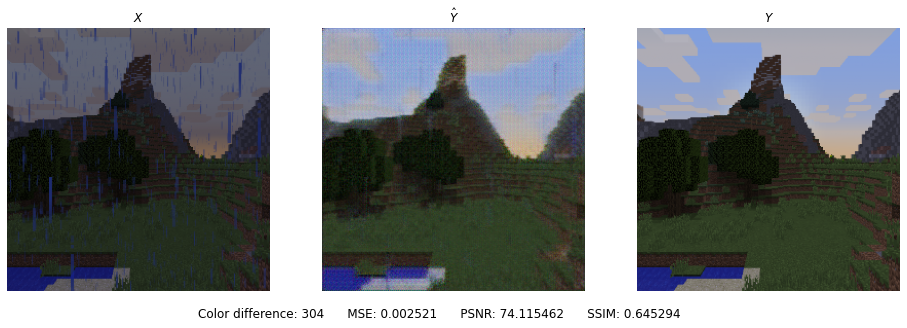
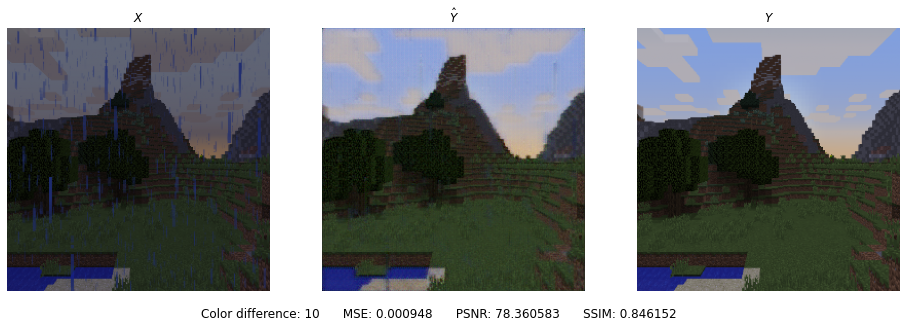
Site update

diff --git a/docs/final.md b/docs/final.md
@@ -23,6 +23,8 @@ This project will allow users to share gameplay in different environment conditi
 
 Our first task was to generate a collection of paired images depicting a given scene in two different conditions, rainy and clear weather. Using Malmo, we created a mission for the agent that uses chat commands to teleport him to random coordinates in the Minecraft World. Our script then takes a screenshot of the Minecraft client window, capturing what the agent sees, first with rainy weather. The code then uses another chat command to change the weather to clear weather; another screenshot is taken from the same position, capturing what the agent sees, under clear weather. Our collected images were manually sorted to remove useless images such as all black underwater images. We also have data of snow and desert areas with no rain, as these regions do not have those properties. All our current data is taken at noon in Minecraft time.
 
+We collected and built our dataset by randomly teleporting the Malmo agent to random coordinates in a Minecraft world and taking screenshots with rainy and clear weather. Our dataset consists of 950 paired images, after filtering out underwater images and areas without rain. 
+
 For our model, we took inspiration from an image to image translation GANs model. Since the combination of Malmo and Minecraft allowed us to generate paired data, we decided to use only the Generator to create a deep neural network with a U-Net architecture. This encoder and decoder structure of the U-net works to downsample and upsample the image with skip connections between mirrored layers as shown below from Phillip Isola’s paper. The layers are comprised of convolutions, rectifiers, and batch normalization. The encoder down samples the image to 1x1 through 8 blocks down and up samples back to 256x256 with 8 blocks up, gradually reducing the filter size as recommended in the referenced image to image translation paper.
 
 ![Encoder-Decoder Unets](/images/model.png)
@@ -60,7 +62,7 @@ The second form of evaluation was through visually comparing side by side photos
 
 Originally, for qualitative measurements we were hoping to achieve a 70% pixel accuracy rate for the RGB channels but realized that this would not work considering that our model will predict float values in the 0~1 range that would be mapped to 0~255. For this reason, we have come up with alternative evaluation metrics: Color Distance, Peak Signal to Noise Ratio (PSNR), Structural Similarity Method (SSIM), and Mean Squared Error (MSE). Color distance is a variant of the Euclidean distance that measures the RGB distance for each pixel. PSNR and SSIM are metrics often used in image comparison. PSNR is based on MSE and is a ratio between the maximum amount of power and the distorted noise of an image. SSIM measures the perceptual difference based on luminescence, contrast, and structure. For Color Distance and MSE, the lower values perform better but for PSNR and SSIM, the higher values perform better.
 
-<!-- ![Color Distance](/images/rain2.png) -->
+![Color Distance](/images/cd.png)
 
 ![PSNR](/images/psnr.PNG)
 
@@ -77,11 +79,6 @@ For the following experimentation, we kept all hyperparameters except one consta
 
 The loss function is derived from the Pixel to Pixel GANS model which multiples a lambda value of 100 to the L1 loss and concatenates it to BCE. Since this makes the L1 loss value extremely large, we believe that BCE has an insignificant effect on the loss function which is why it is unable to decrease as seen above. The BCE loss function was also run on its own but was not learning patterns, most likely because the L1 loss function maintains the original RGB of the input image. For this reason, we removed BCE and decided to only use the L1 loss. 
 
-**Batch Size**
-
-One of the hyperparameters of our model is batch size. To find the batch size that produced the best results, we tried training the model on batch sizes 5, 10, 20, and 40 and looked at the means of color distance of their test results. We found that batch size 20 produced the lowest mean color distance of 229 and decided to use that value.
-
-(images of batch size results)
 
 **Learning Rate**
 
@@ -95,6 +92,19 @@ Learning Rate | Sample Prediction | L1 Loss Function
 **0.01** | ![lr 0.01](/images/lr/lr001_img.png)  |  ![lr 0.01](/images/lr/lr001_loss.png)
 **0.001** | ![lr 0.001](/images/lr/lr0001_img.png)  |  ![lr 0.001](/images/lr/lr0001_loss.png)
 **0.0001** | ![lr 0.0001](/images/lr/lr00001_img.png)  |  ![lr 0.0001](/images/lr/lr00001_loss.png)
+
+**Batch Size**
+
+One of the hyperparameters of our model is batch size. To find the batch size that produced the best results, we tried training the model on batch sizes 5, 10, 20, and 40 and looked at the means of color distance of their test results. We found that batch size 5 produced the lowest mean color distance of 9 and decided to use that value.
+
+Learning Rate | Sample Prediction | Data
+--------------|-------------------|-------------------
+<img width=120/> | <img width=120/> | <img width=120/>
+**5** | ![batch 5](/images/batches/batch5.png)  |  ![batch 5 data](/images/batches/batch5results.png)
+**10** | ![batch 10](/images/batches/batch10.png)  |  ![batch 10 data](/images/batches/batch10results.png)
+**20** | ![batch 20](/images/batches/batch20.png)  |  ![batch 20 data](/images/batches/batch20results.png)
+**40** | ![batch 40](/images/batches/batch40.png)  |  ![batch 40 data](/images/batches/batch40results.png)
+
 
 **Filters**
 
@@ -115,6 +125,32 @@ With our experimentation, we have found the following combinations to produce th
 - **Batch Size: 20**
 - **Learning Rate: 1e-3**
 - **Filters in the last Conv layer: 128**
+
+**Best Run**
+
+For de-raining images:
+
+![De-rain 1](/images/best/derain1.png)
+
+![De-rain 2](/images/best/derain2.png)
+
+![De-rain 3](/images/best/derain3.png)
+
+![De-rain 4](/images/best/derain4.png)
+
+![De-rain 5](/images/best/derain5.png)
+
+![De-rain 6](/images/best/derain6.png)
+
+For adding rain to images:
+
+![Rain 1](/images/best/rain1.png)
+
+![Rain 2](/images/best/rain2.png)
+
+![Rain 2](/images/best/rain2.png)
+
+![Rain 2](/images/best/rain2.png)
 
 With more data, we believe that our model would have been able to produce better results as 950 image pairs is small. Having more computational power would have allowed us to experiment with more data, epochs, filters, and layers. If we had more time, we would have liked to experiment with generating images of larger size (512x512) and running them on our model.
 
